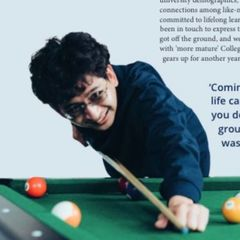
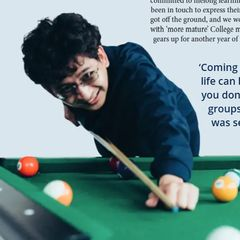
Fix Owl magazine link; sharper page image
Claude-Session: https://claude.ai/code/session_011AFD6gW6wmtdb4UfbJcpZ4

diff --git a/index.html b/index.html
@@ -553,7 +553,7 @@ h1 em{display:block;font-family:var(--f-text);font-style:italic;font-size:.9em;l
           <li class="ph-strip" aria-label="Photo: MCR Handover Formal Hall"><button class="ph-thumb" type="button" data-i="5" aria-label="View photo: Speaking at the MCR Handover Formal Hall, Hughes Hall"><img src="photos/hh-mcr-thumb.jpg" alt="" width="64" height="64" loading="lazy"></button><span class="ph-note">Photo</span></li></ul></li>
         <li class="tl-row"><span class="tl-year">2024</span><ul class="tl-events">
           <li class="tl-ev"><span>Founder and President, Hughes Hall 30+ Network, University of Cambridge</span><span class="tag">Leadership</span></li>
-          <li class="ph-strip" aria-label="The Owl feature"><button class="ph-thumb" type="button" data-i="10" aria-label="View: The Hughes Hall 30+ Network, featured in The Owl, the Hughes Hall magazine"><img src="photos/owl-30plus-thumb.jpg" alt="" width="64" height="64" loading="lazy"></button><a class="link-btn" href="https://www.hughes.cam.ac.uk/wp-content/uploads/2025/11/HughesHall_TheOwl-FINAL-PDF.pdf" target="_blank" rel="noopener">Read the feature in The Owl<span aria-hidden="true"> ↗</span></a></li>
+          <li class="ph-strip" aria-label="The Owl feature"><button class="ph-thumb" type="button" data-i="10" aria-label="View: The Hughes Hall 30+ Network, featured in The Owl, the Hughes Hall magazine"><img src="photos/owl-30plus-thumb.jpg" alt="" width="64" height="64" loading="lazy"></button><a class="link-btn" href="https://750706fd.flowpaper.com/HughesHallTheOwl25/#page=15" target="_blank" rel="noopener">Read the feature in The Owl<span aria-hidden="true"> ↗</span></a></li>
           <li class="tl-ev"><span>President, The Academics Society, University of Cambridge (2024–2026)</span><span class="tag">Leadership</span></li>
           <li class="ph-strip" aria-label="The Academics Society"><button class="ph-thumb" type="button" data-i="9" aria-label="View: Third Academics Forum, 23 November 2025, convened as President of The Academics Society, University of Cambridge"><img src="photos/acad-forum-thumb.jpg" alt="" width="64" height="64" loading="lazy"></button><a class="link-btn" href="https://lnkd.in/gPkrk_8C" target="_blank" rel="noopener">Watch the Third Academics Forum<span aria-hidden="true"> ↗</span></a></li>
           <li class="tl-ev"><span>Visiting Fellow, School of Law, University of Reading</span><span class="tag">Appointment</span></li>
